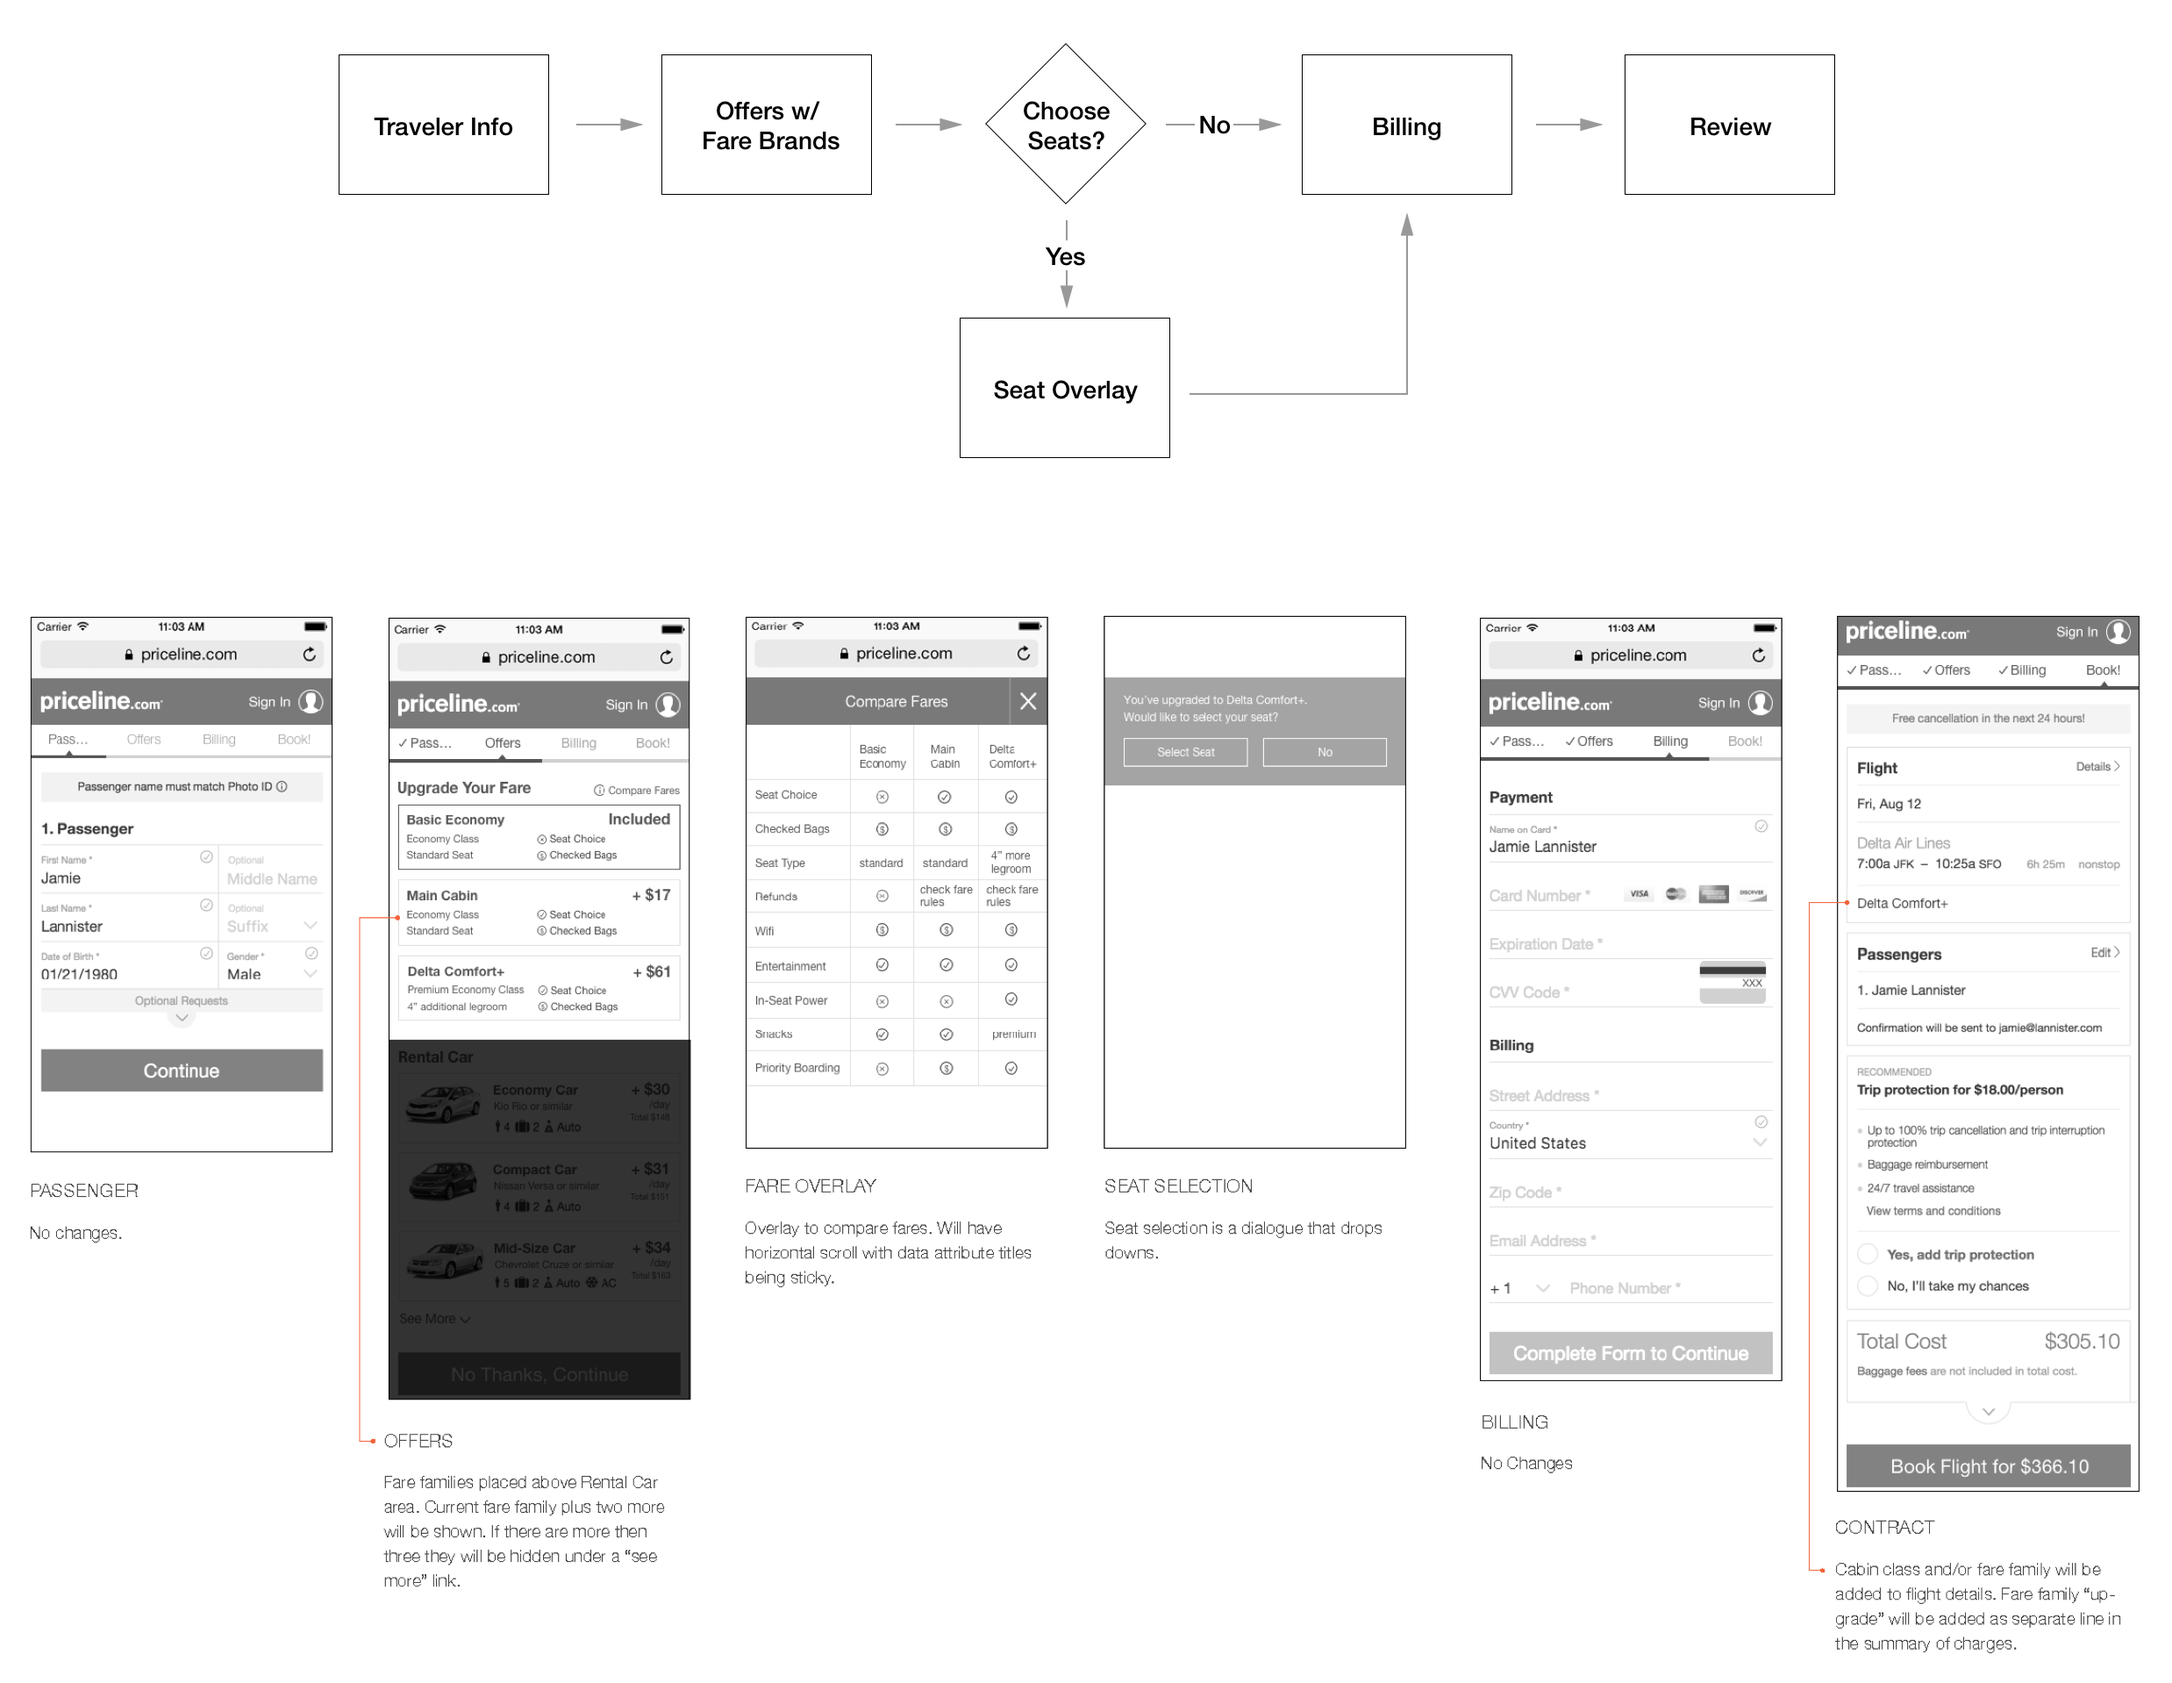
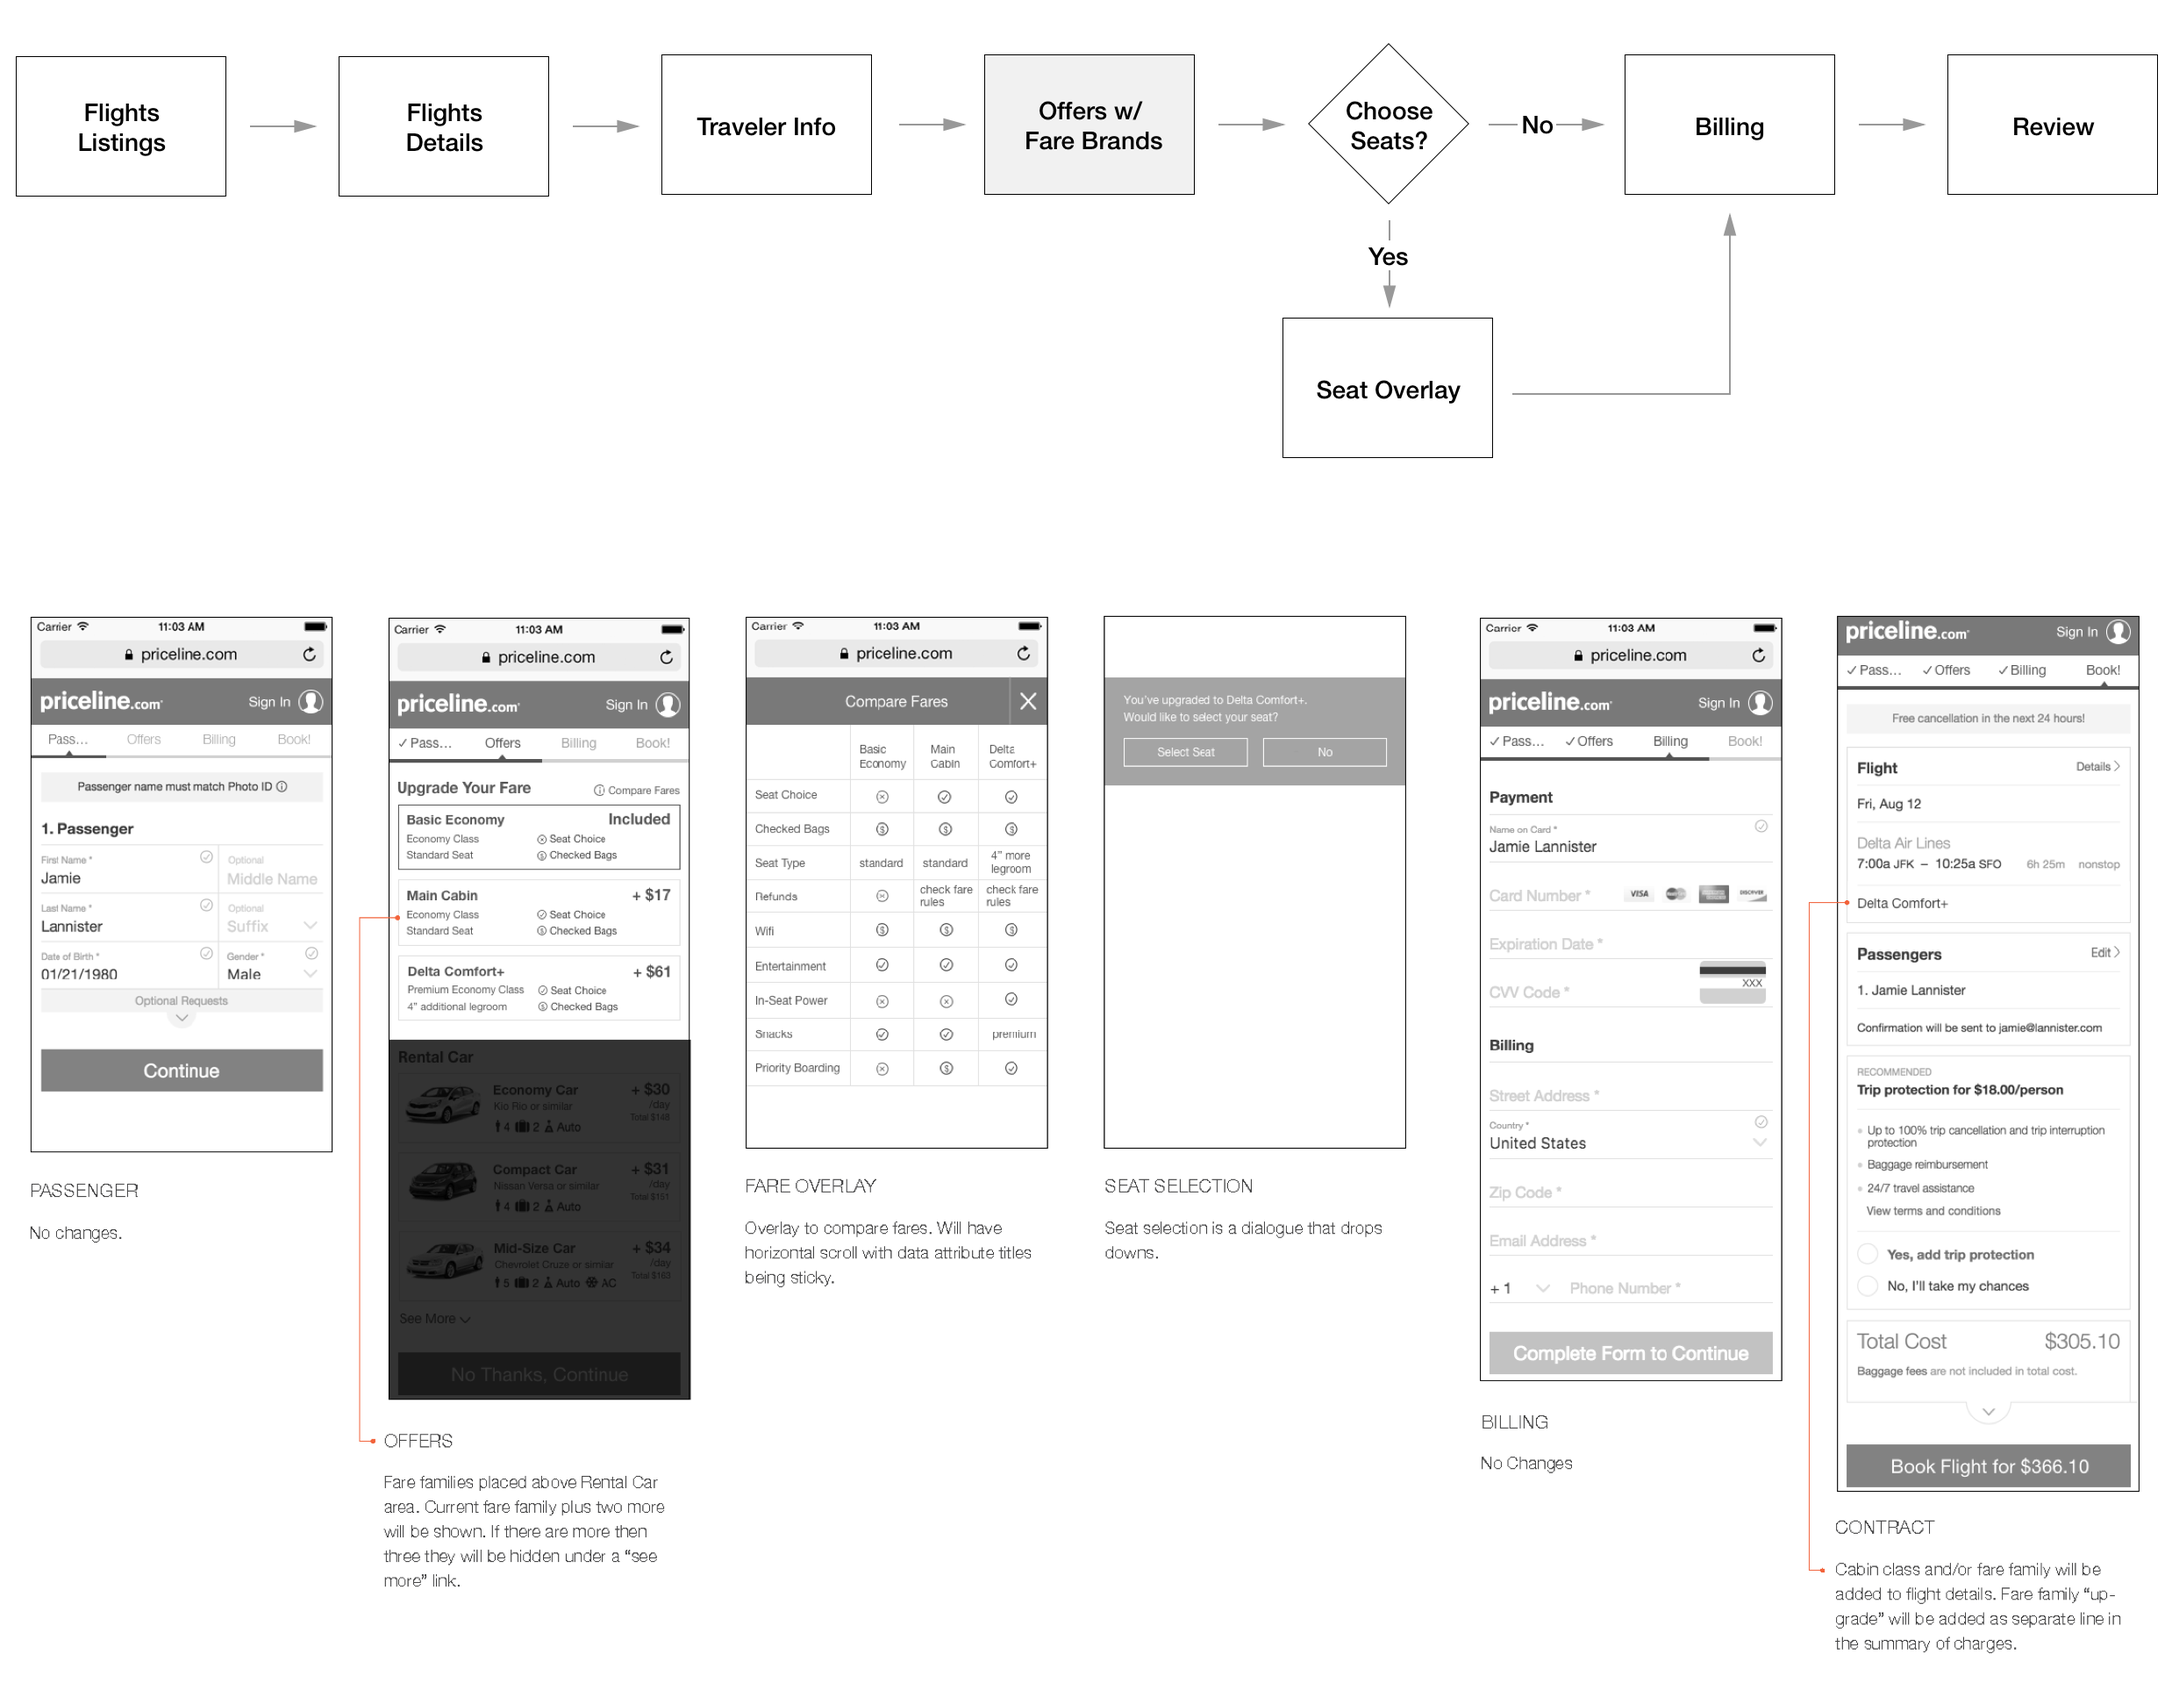
Fare Brands Images

diff --git a/portfolio/PricelineFareBrands.html b/portfolio/PricelineFareBrands.html
@@ -2,6 +2,7 @@
 <html>
   <head>
     <meta charset="utf-8">
+    <meta name="viewport" content="width=device-width">
     <title>Annelise Bryda | UX/UI Designer</title>
     <link rel="stylesheet" href="css/main.css">
     <link href="https://fonts.googleapis.com/css?family=Raleway:300,400,500,600,700,800" rel="stylesheet">
@@ -40,6 +41,7 @@
         	<p>We first worked with Delta Air Lines, American Airlines, and United Airlines to include their basic economy tickets within the flights tickets offered on Priceline.com, and the ability to upgrade to higher, and more expensive fares. Although, I knew after talking with development, that we would have to add fare brands into checkout because of how the price confirmation worked, I ran a usability test within the office with two different user flows. One, showed the fare brand options within the checkout steps. The second, asked users to select a fare brand within the flight details screen before checkout. I was able to learn that what the user preferred directly correlated with 1) does the user have a family and 2) income. People who travel alone and have a lower income preferred to see the options in checkout, where they could easily skip over the upgrades, as it is something they wouldn’t consider. People with a higher income and families preferred to see fare brand options upfront so they didn’t waste their time buying a flight that didn’t have the ancillary options they wanted.</p>
         </div>	
         <img src="img/Priceline_FareBrands/Priceline_FareBrands_UserFlow1.png">
+        <img src="img/Priceline_FareBrands/Priceline_FareBrands_UserFlow2.png">
         <div class="project-text">
         	<h2>{03} Design and Complexity</h2>
         	<p>One of the complexities with this project was that every airline handles branded fares in a slightly different way and each of our partners had a few special requests. What information we were able to include on each fare was also dictated by the GDS we pulled the information from. With that said, my goal was to present the information in a clear way that allowed easy comparison.</p>
